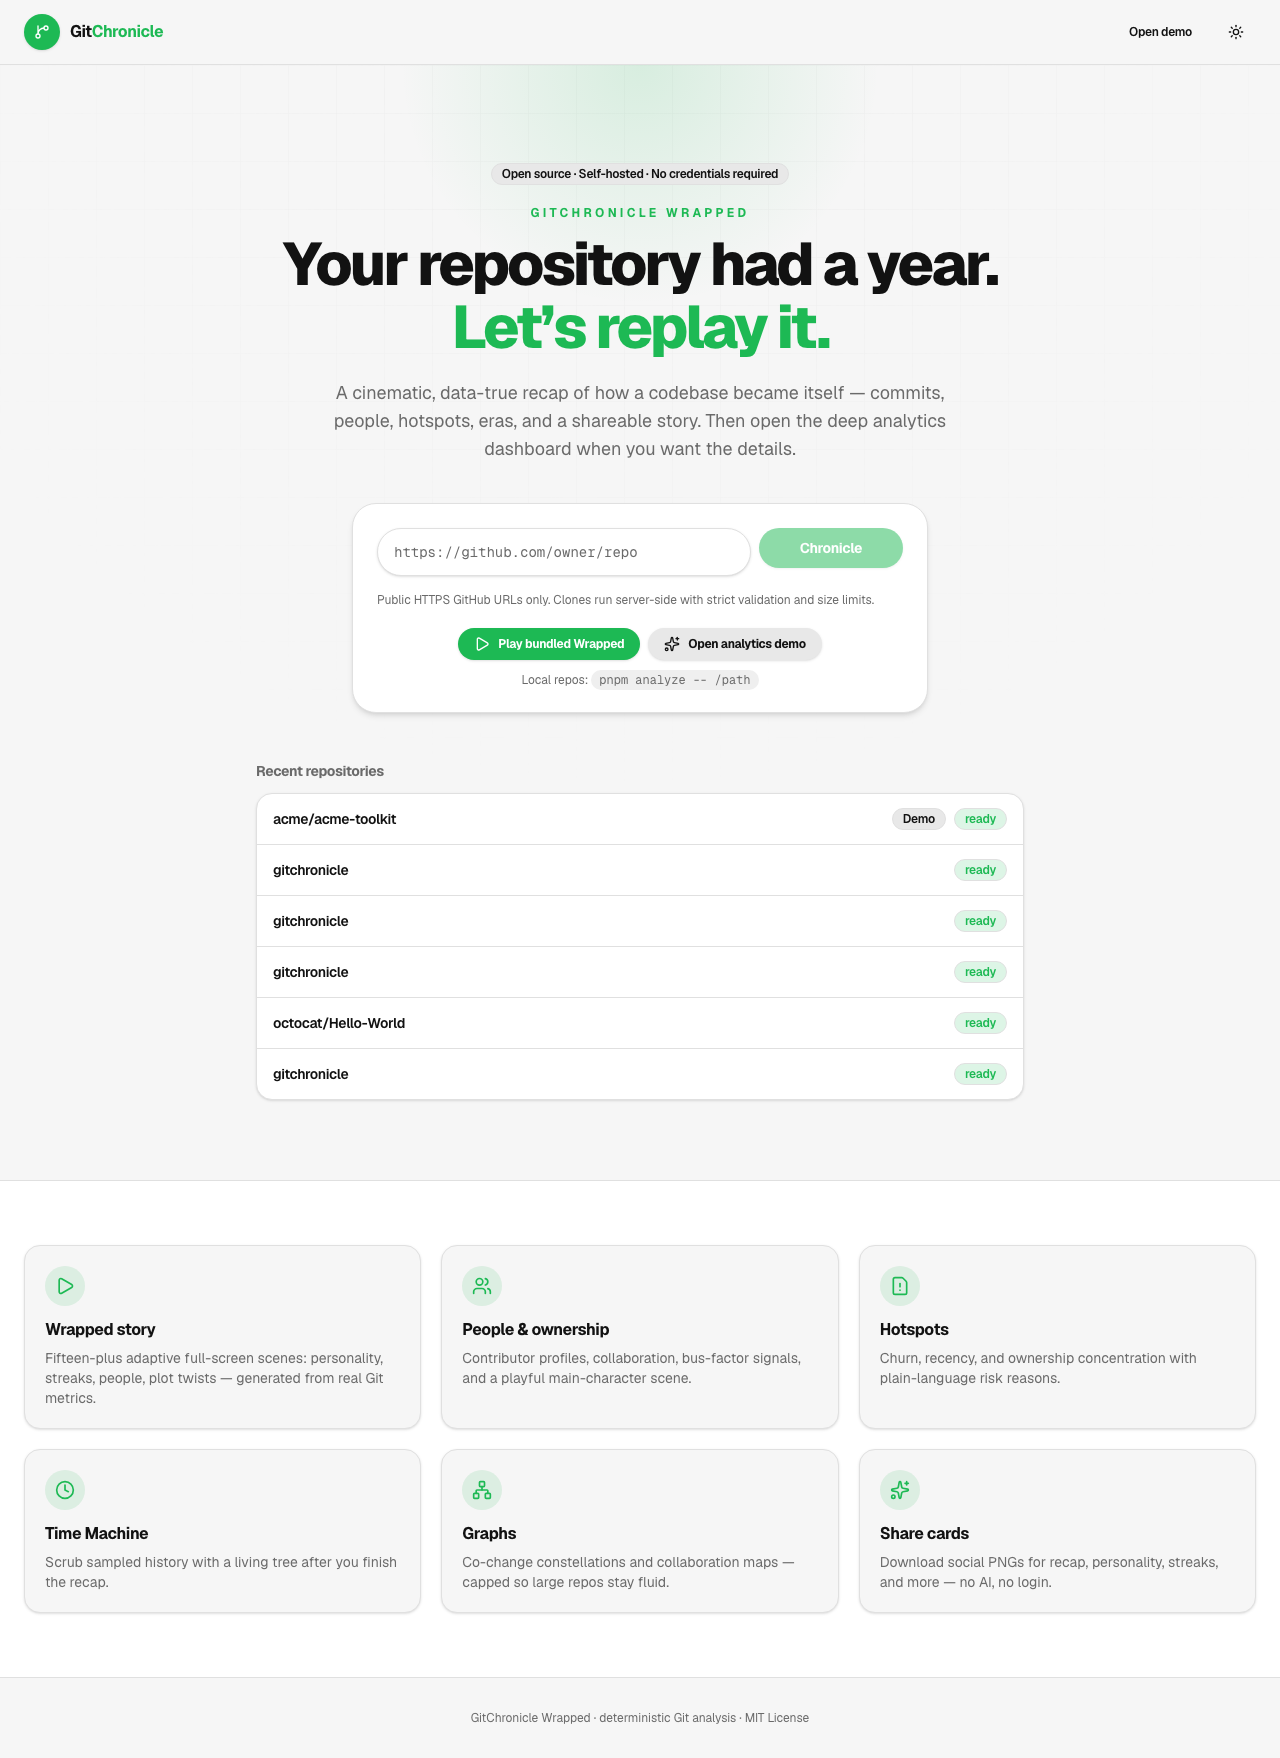
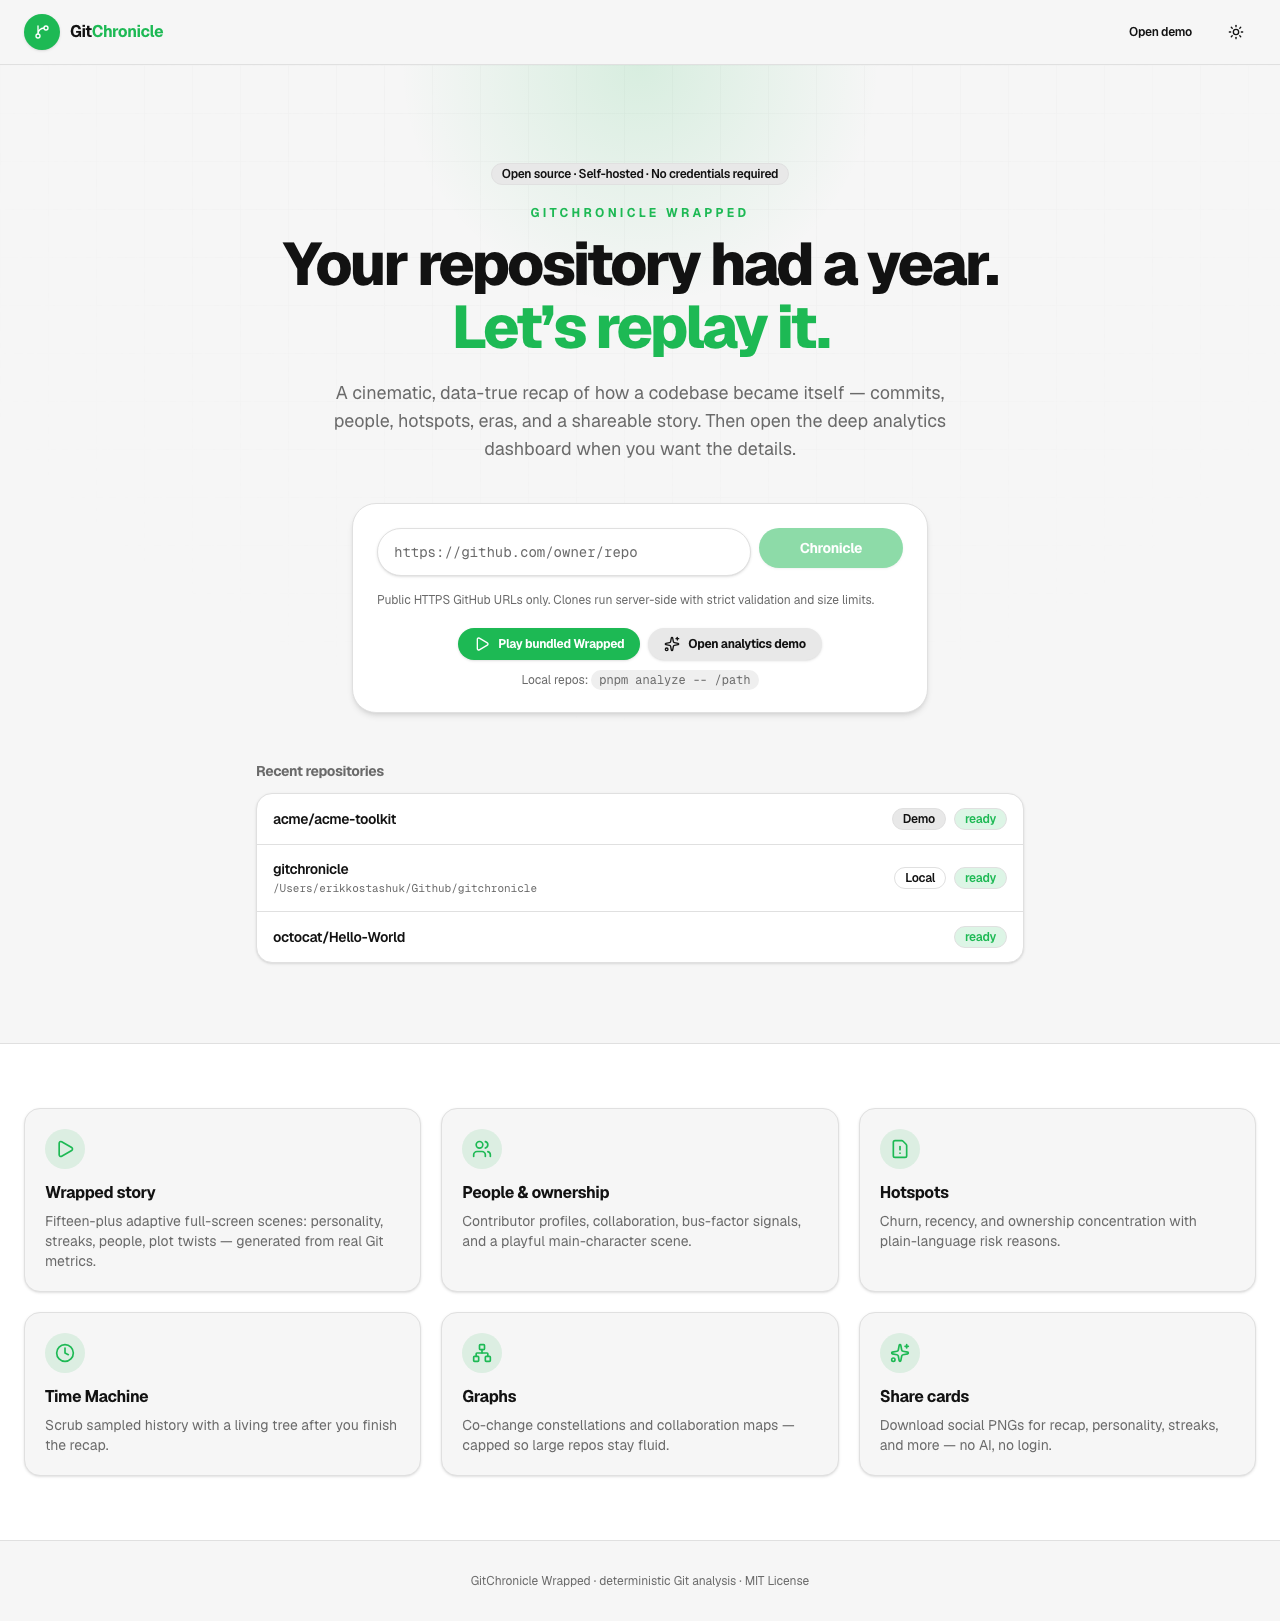
docs: publication verification pass and refresh screenshots
Re-run lint/typecheck/test/build/e2e, local analyze smoke, markdown
export, and pnpm screenshots after chart contrast. Mark PROGRESS and
FINAL_AUDIT publication-ready; demo story is 22 scenes.

diff --git a/PROGRESS.md b/PROGRESS.md
@@ -6,108 +6,40 @@
 
 Primary experience is a cinematic, adaptive multi-scene Wrapped story from real Git analysis. Analytics dashboard is the deep dive after the story.
 
+## Publication status — READY (2026-08-03)
+
+Verified end-to-end:
+
+| Check | Result |
+| --- | --- |
+| `pnpm lint` / `typecheck` / `test` / `build` | pass (79 unit tests) |
+| `pnpm test:e2e` | **16/16** pass (desktop + mobile) |
+| Demo Wrapped | 22 adaptive scenes (incl. rising star), analysis-backed |
+| Local analyze | reuses project by path; Wrapped **200** |
+| Markdown export | non-empty report (Overview) |
+| Share PNG | e2e magic-byte verified |
+| Marketing screenshots | refreshed via `pnpm screenshots` (post chart contrast) |
+
+No high-priority unfinished product work remains. Remaining ideas are optional stretch (admin DB cleanup, streaming git log).
+
 ## Foundation (MVP — complete)
 - [x] Next.js App Router + TypeScript strict + Tailwind + SQLite/Drizzle
 - [x] Git parse → pure metrics → persisted JSON
 - [x] Demo seed, local CLI analyze, GitHub HTTPS import
 - [x] Dashboard sections + Markdown export + Docker + tests spine
 
-## Wrapped Phase A — Pure storytelling engine
-- [x] Typed Wrapped scene model (`src/lib/wrapped/types.ts`)
-- [x] Deterministic streaks (`streaks.ts`)
-- [x] Deterministic repository personality (`personality.ts` + documented rules)
-- [x] Adaptive scene selection (`scenes.ts` / `buildWrappedStory`)
-- [x] Unit tests (6 wrapped + existing parse/metrics)
+## Wrapped Phase A–C — complete
+- [x] Story engine, cinematic player, share cards, landing, e2e
+- [x] Spotify-adjacent light theme; rising star; retry; stale/orphan recovery
+- [x] Recent-repos dedupe; large-repo perf; chart contrast; screenshots
 
-## Wrapped Phase B — Cinematic player
-- [x] Full-screen Wrapped player (progress, keyboard, swipe, reduced-motion)
-- [x] ~15–25 adaptive scenes with strong typography (demo: 21)
-- [x] Demo entry → `/repo/acme-toolkit/wrapped`
-- [x] Local analyze prints `/repo/<slug>/wrapped`
+## Continuous-improvement log (2026-08-03)
+- Visual identity, rising star, failed-job retry, screenshots + title shine
+- Chart contrast, stale jobs, project dedupe, large-repo perf, orphan repair
+- Publication verification + screenshot refresh
 
-## Wrapped Phase C — Share & polish
-- [x] Downloadable PNG share cards (1200×630 + 1080×1080)
-- [x] Closing CTAs → analytics / report / another repo
-- [x] Landing rebranded for Wrapped
-- [x] e2e for Wrapped nav + exports + retry API (**16/16**, hard keyboard + closing + PNG)
-- [x] FINAL_AUDIT.md
-- [x] lint / typecheck / test / build green
-
-## Skeptic repairs
-- [x] Closing scene scrollable (overflow-y-auto on scene body)
-- [x] Wrapped outside dashboard layout (route group `(app)`)
-- [x] e2e production server for reliable client hydration
-- [x] PNG export evidence (export-cards.log / test-results/exports)
-
-## Visual identity — Spotify-adjacent light default (2026-08-03)
-- [x] Light product chrome default (`defaultTheme="light"`, `enableSystem={false}`)
-- [x] CSS tokens: near-white surfaces + Spotify green `#1DB954` / `#1ED760` (not teal)
-- [x] Pill buttons, solid green active nav, rounded inputs/tabs/badges
-- [x] Landing hero: bold type + green accent (no teal/indigo gradients)
-- [x] Scene copy: punchier deterministic jokes; density caps for single-screen film
-- [x] Player: ~2.8s film autoplay, full-viewport frame, bounce/float motion, reduced-motion safe
-- [x] Share card PNG palette aligned to green/black brand
-- [x] Token/chrome unit tests (`src/lib/theme/spotify-light.test.ts`) — 39 unit tests total
-
-## Rising star (2026-08-03)
-- [x] Pure `pickRisingStar` (`src/lib/wrapped/rising-star.ts`) — lateness ≥ 40% of timeline, density/velocity score, score floor
-- [x] Scene metrics + share card kind `rising_star`
-- [x] Demo seeds late-joiner **Barbara Liskov** (~20 commits after ~65% of history) without overtaking founding lead
-- [x] Unit tests: demo pick, synthetic late dense star, early-cast skip (42 unit tests total)
-
-## Failed-job retry (2026-08-03)
-- [x] Pure `planRetryJob` + `enqueueRetry` (`src/lib/jobs/retry.ts`)
-- [x] `POST /api/repos/[slug]/retry` — github re-clone / local reanalyze; 409 if in-flight
-- [x] JobStatusPanel **Retry analysis** button (polls new job; demo not retryable)
-- [x] Unit tests for planner (7) + e2e API guards (demo/missing slug)
-- [x] 49 unit tests total
-
-## Notes
-- Classic Story deck kept as secondary chronological slides
-- Rising star requires ≥3 contributors, ≥20 commits, late firstCommit, score floor — skipped when weak
-- Wrapped player remains intentionally dark cinematic; product shell is light-first
-- Optional dark theme still available via toggle (storage key `gitchronicle-theme`)
-- Demo projects reject retry (re-seed with `pnpm seed`); GitHub failed jobs re-clone after cleanup
-
-## Marketing screenshots (2026-08-03)
-- [x] `pnpm screenshots` → `scripts/capture-screenshots.ts` (Playwright, light theme forced)
-- [x] Regenerated all `docs/screenshots/*` post Spotify rebrand + rising-star (22 scenes)
-- [x] README badge green `#1DB954`; Wrapped image points at `wrapped-open.png`
-- [x] Fixed Wrapped title visibility: `gc-title-shine` no longer uses `background-clip:text` (was invisible under transforms / Chromium capture)
-
-## Light-theme chart contrast (2026-08-03)
-- [x] Shared Recharts theme (`src/components/charts/theme.ts`) — axis/grid/tooltip use CSS tokens + popover-foreground
-- [x] Multi-series: `--chart-2` is blue `#509bf5` (not near-identical green) on light and dark
-- [x] Growth chart legend; empty states; heatmap empty-tile ring + Less/More legend
-- [x] Theme tests assert chart-2 ≠ chart-1 (52 unit tests total)
-
-## Stale running-job recovery (2026-08-03)
-- [x] Pure `isJobStale` / heartbeat age (`src/lib/jobs/stale.ts`) — TTL 20m since last `updatedAt`
-- [x] `recoverStaleJobs()` marks job + project failed with retry-friendly message
-- [x] Wired into worker loop, `processNextJob`, `processJobById`, job poll API, and `enqueueRetry`
-- [x] Unit tests for stale pure logic (60 unit tests total)
-
-## Landing recent-repos dedupe (2026-08-03)
-- [x] Pure `dedupeProjectsForDisplay` / `projectIdentityKey` (`src/lib/projects/dedupe.ts`)
-- [x] Landing + repo switcher use `listProjectsForDisplay` (prefer ready, then newest)
-- [x] `pnpm analyze` reuses project by normalized `localPath` (no more gitchronicle-N spam)
-- [x] Local path shown on recent list; unit tests (69 total)
-
-## Large-repo analysis performance (2026-08-03)
-- [x] `git log` format omits commit body (`%b`) — subject-only categorization, far smaller stdout
-- [x] `gitExec` buffers stdout/stderr as chunk arrays (no quadratic string concat)
-- [x] Single chronological sort in `analyzeRepository`; file/contributor/growth skip re-sort
-- [x] Co-change caps: `MAX_COCHANGE_PAIRS` (40k) + `MAX_COCHANGE_FILES_PER_COMMIT` (24)
-- [x] Unit tests for caps + wide synthetic history (73 tests total)
-
-## Orphan project status repair (2026-08-03)
-- [x] Pure `planOrphanProjectRepair` (`src/lib/jobs/orphans.ts`)
-- [x] Stuck pending/cloning/analyzing + terminal/missing job → ready or failed
-- [x] Folded into `recoverStaleJobs()`; also runs on landing/switcher list
-- [x] Unit tests (79 total)
-
-## Suggested next (priority)
-1. Optional: re-run `pnpm screenshots` after chart contrast for docs/overview
-2. Optional: admin cleanup to delete superseded duplicate project rows
-3. Optional: stream/parse git log incrementally for multi‑GB histories
-4. Publication check: full e2e + local analyze smoke; consider loop stop if bar met
+## Optional later (not blocking)
+1. Admin cleanup of superseded duplicate project rows
+2. Stream/parse git log for multi‑GB histories
+3. Per-commit author histograms for richer rising-star curves
+4. Multi-forge imports beyond public HTTPS GitHub

diff --git a/FINAL_AUDIT.md b/FINAL_AUDIT.md
@@ -1,8 +1,9 @@
 # FINAL_AUDIT — GitChronicle Wrapped
 
-**Date:** 2026-08-03  
+**Date:** 2026-08-03 (publication verification re-run)  
 **Product:** GitChronicle Wrapped — cinematic repository recap  
-**Tagline:** Your repository had a year. Let’s replay it.
+**Tagline:** Your repository had a year. Let’s replay it.  
+**Status:** **Publication-ready**
 
 ## Startup (local)
 
@@ -27,11 +28,12 @@ pnpm dev
 | `pnpm test` | 79 pass (parse + metrics + wrapped + jobs stale/orphan/retry + dedupe + theme) |
 | `pnpm build` | pass |
 | `pnpm test:e2e` | **16 pass** (desktop + mobile), including hard keyboard advance + closing scroll + PNG magic + retry API |
-| Demo Wrapped | 21 adaptive scenes, analysis-backed |
-| Local CLI analyze | ready project + Wrapped 200 |
-| Markdown export | non-empty report with Overview |
-| PNG share cards | recap landscape ~900KB+, PNG signature verified |
+| Demo Wrapped | **22** adaptive scenes (incl. rising star), analysis-backed |
+| Local CLI analyze | path reuse + Wrapped **200** |
+| Markdown export | non-empty report with Overview (~5KB+) |
+| PNG share cards | recap landscape PNG signature verified in e2e |
 | Invalid GitHub URL | 400 |
+| Marketing screenshots | regenerated with light theme + chart contrast |
 
 ### Skeptic fixes (2026-08-03)
 
@@ -71,7 +73,7 @@ No AI APIs.
 
 ### Scene selection
 
-`buildWrappedStory` emits only scenes with enough data (solo repos skip people/collaboration/releases; tiny repos still get opening → recap → closing). Demo Acme Toolkit yields **21** scenes.
+`buildWrappedStory` emits only scenes with enough data (solo repos skip people/collaboration/releases; tiny repos still get opening → recap → closing). Demo Acme Toolkit yields **22** scenes (includes rising star: Barbara Liskov).
 
 ## Screenshots
 
